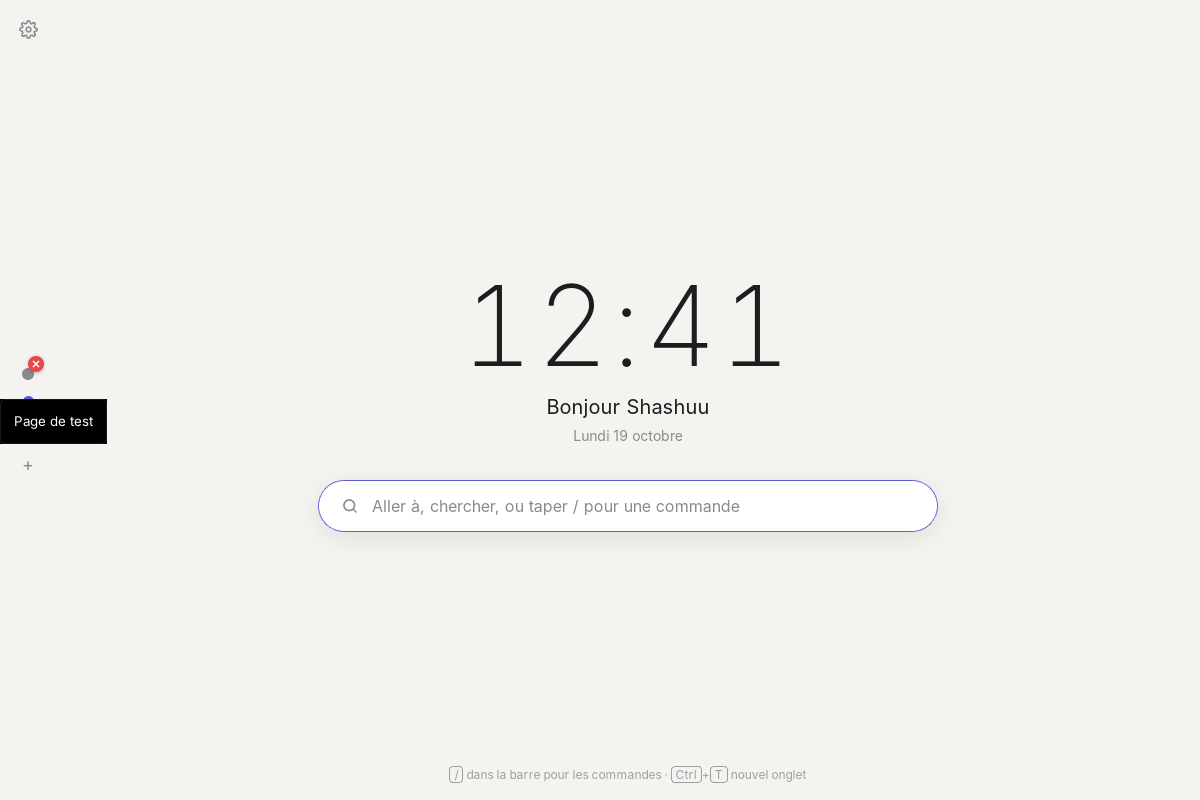
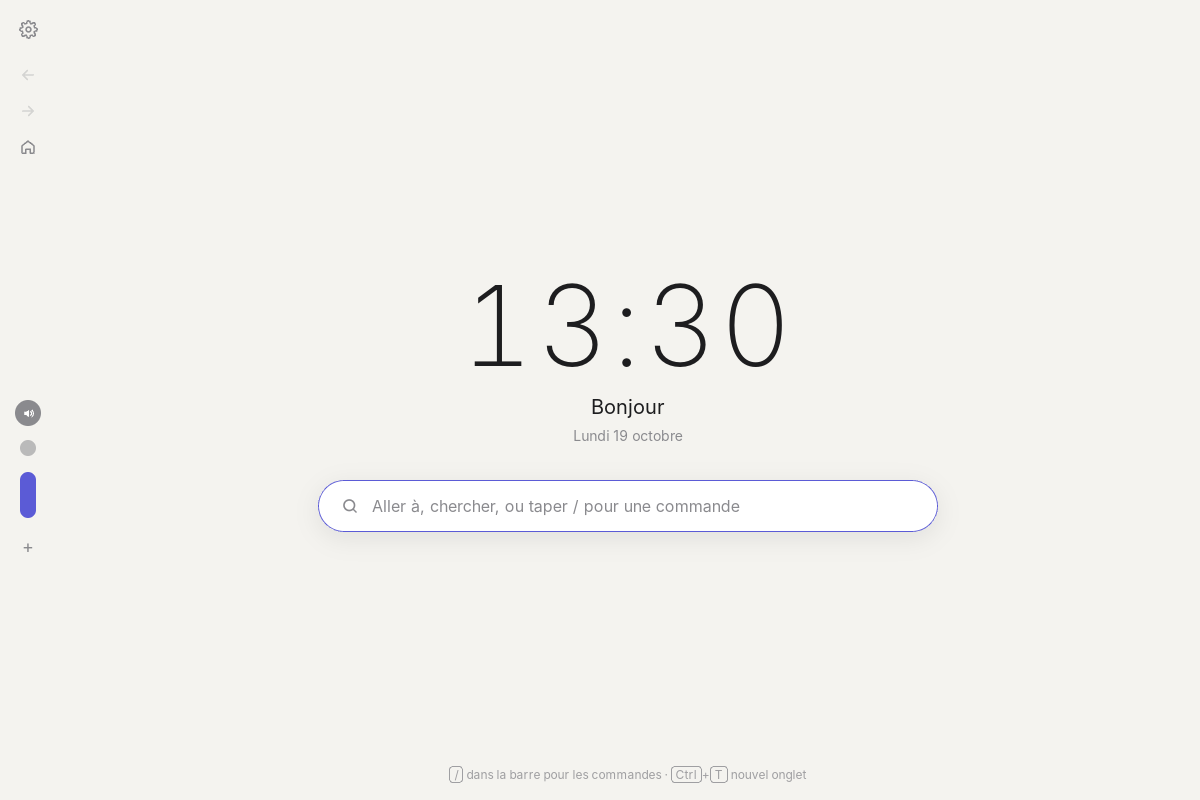
Onglets plus larges, plus faciles à cliquer
Claude-Session: https://claude.ai/code/session_01KFvcYfJ67VjmJRM2Wgwzar

diff --git a/assets/chrome.html b/assets/chrome.html
@@ -79,19 +79,19 @@
 
   /* Onglets : un point, ou une longue pastille pour l'onglet actif */
   #pills { display: flex; flex-direction: column; align-items: center; gap: 4px; overflow-y: auto; scrollbar-width: none; padding-top: 8px; }
-  .tab { position: relative; width: 34px; height: 26px; display: grid; place-items: center; cursor: pointer; }
-  .tab.active { height: 50px; }
+  .tab { position: relative; width: 46px; height: 30px; display: grid; place-items: center; cursor: pointer; }
+  .tab.active { height: 56px; }
   .dot {
-    width: 10px; height: 10px; border-radius: 5px; background: var(--muted); opacity: .55;
+    width: 16px; height: 16px; border-radius: 8px; background: var(--muted); opacity: .55;
     transition: all .18s ease;
   }
-  .tab:hover .dot { opacity: 1; width: 12px; height: 12px; border-radius: 6px; }
-  .tab.active .dot, .tab.active:hover .dot { width: 11px; height: 40px; border-radius: 6px; background: var(--accent); opacity: 1; }
+  .tab:hover .dot { opacity: 1; width: 18px; height: 18px; border-radius: 9px; }
+  .tab.active .dot, .tab.active:hover .dot { width: 16px; height: 46px; border-radius: 8px; background: var(--accent); opacity: 1; }
   .tab.loading .dot { animation: pulse 1s ease-in-out infinite; }
   @keyframes pulse { 50% { opacity: .3; } }
   /* Petite croix rouge qui apparaît en haut de l'onglet survolé */
   .close {
-    position: absolute; top: -5px; right: 1px; width: 16px; height: 16px; border-radius: 8px;
+    position: absolute; top: -4px; right: 4px; width: 16px; height: 16px; border-radius: 8px;
     display: grid; place-items: center; background: var(--danger); color: #fff;
     box-shadow: 0 1px 4px rgba(0, 0, 0, .25);
     opacity: 0; transform: scale(.6); pointer-events: none; transition: all .12s ease;
@@ -99,13 +99,13 @@
   .tab:hover .close { opacity: 1; transform: scale(1); pointer-events: auto; }
   .close:hover { filter: brightness(1.1); }
   /* Onglet qui joue du son : la pastille grandit et porte le haut-parleur ; un clic dessus coupe le son */
-  .tab.sound { height: 30px; }
-  .tab.sound.active { height: 52px; }
+  .tab.sound { height: 32px; }
+  .tab.sound.active { height: 56px; }
   .tab.sound .dot, .tab.sound:hover .dot {
-    width: 22px; height: 22px; border-radius: 11px; opacity: 1; padding: 0;
+    width: 26px; height: 26px; border-radius: 13px; opacity: 1; padding: 0;
     display: grid; place-items: center; color: #fff; background: var(--muted); cursor: pointer;
   }
-  .tab.sound.active .dot, .tab.sound.active:hover .dot { width: 22px; height: 44px; background: var(--accent); }
+  .tab.sound.active .dot, .tab.sound.active:hover .dot { width: 26px; height: 48px; background: var(--accent); }
   .tab.sound.muted .dot { opacity: .7; }
   .tab.sound .dot:hover { filter: brightness(1.12); }
   /* Glisser-déposer */
